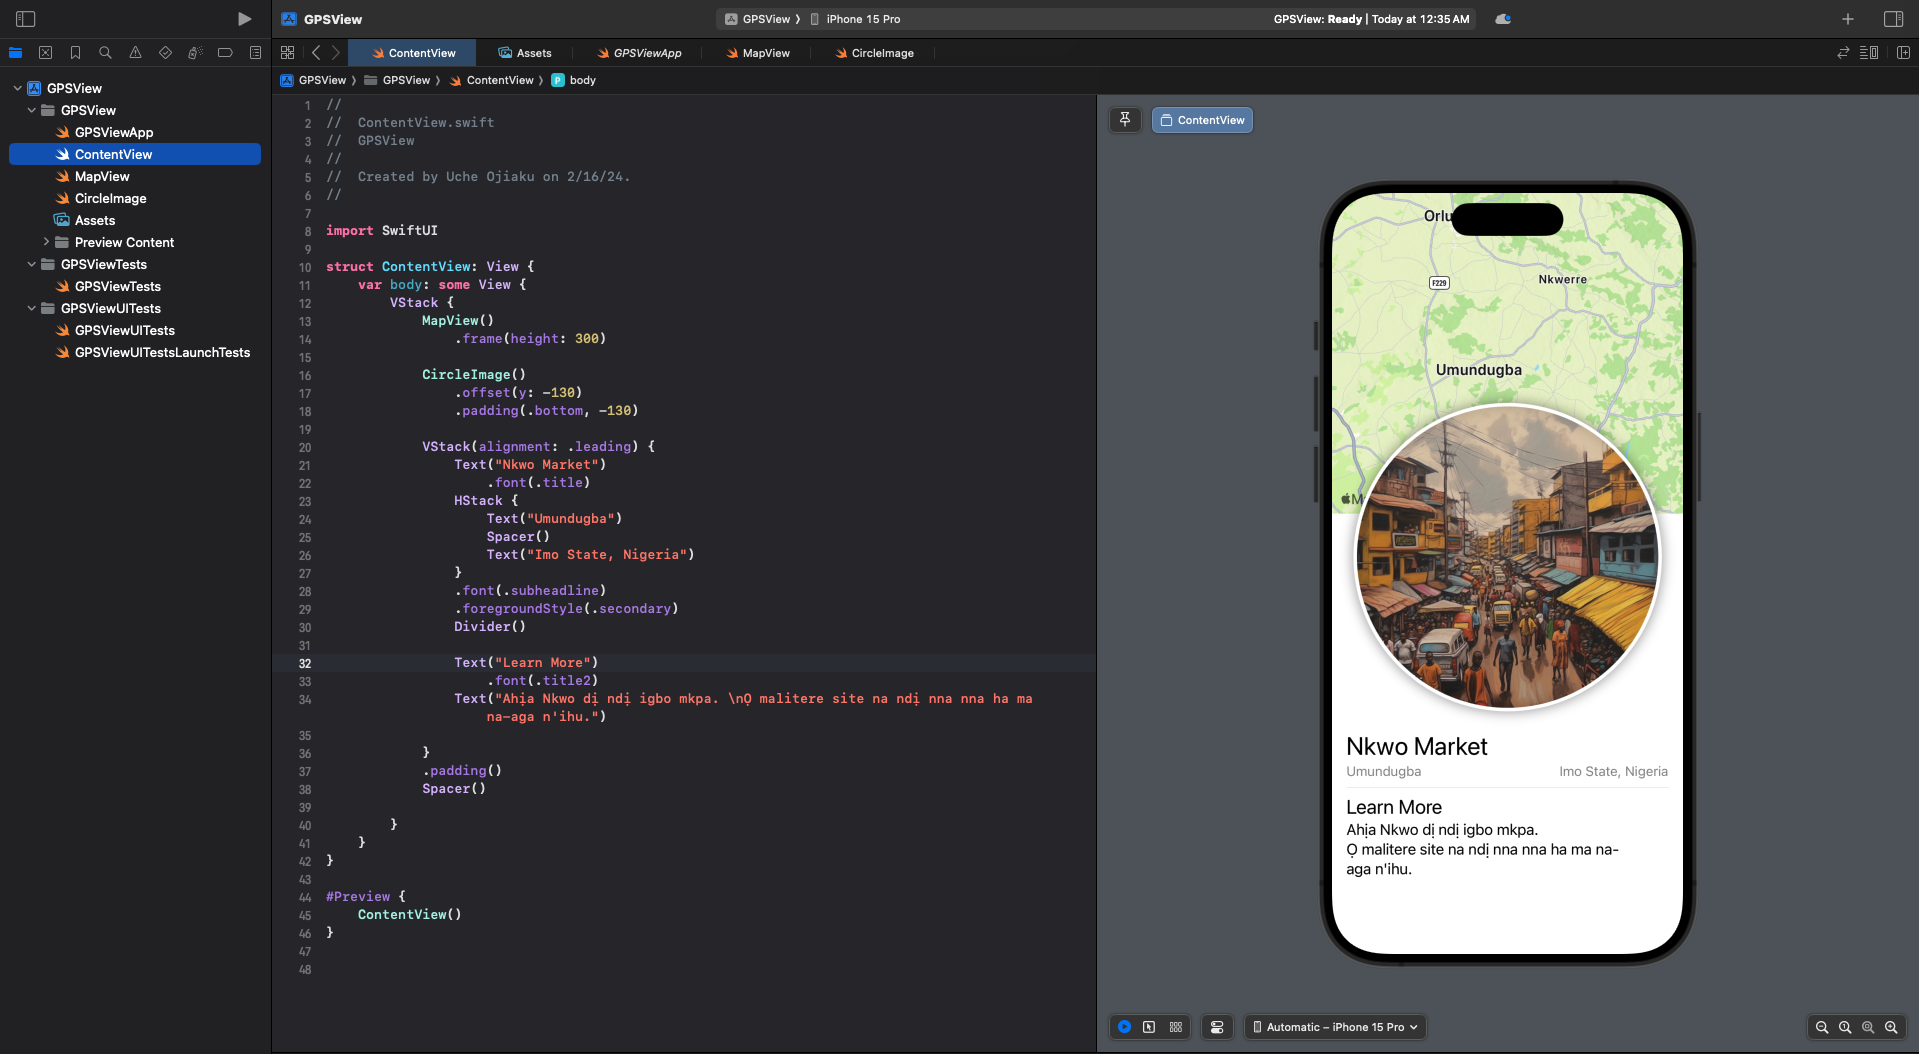
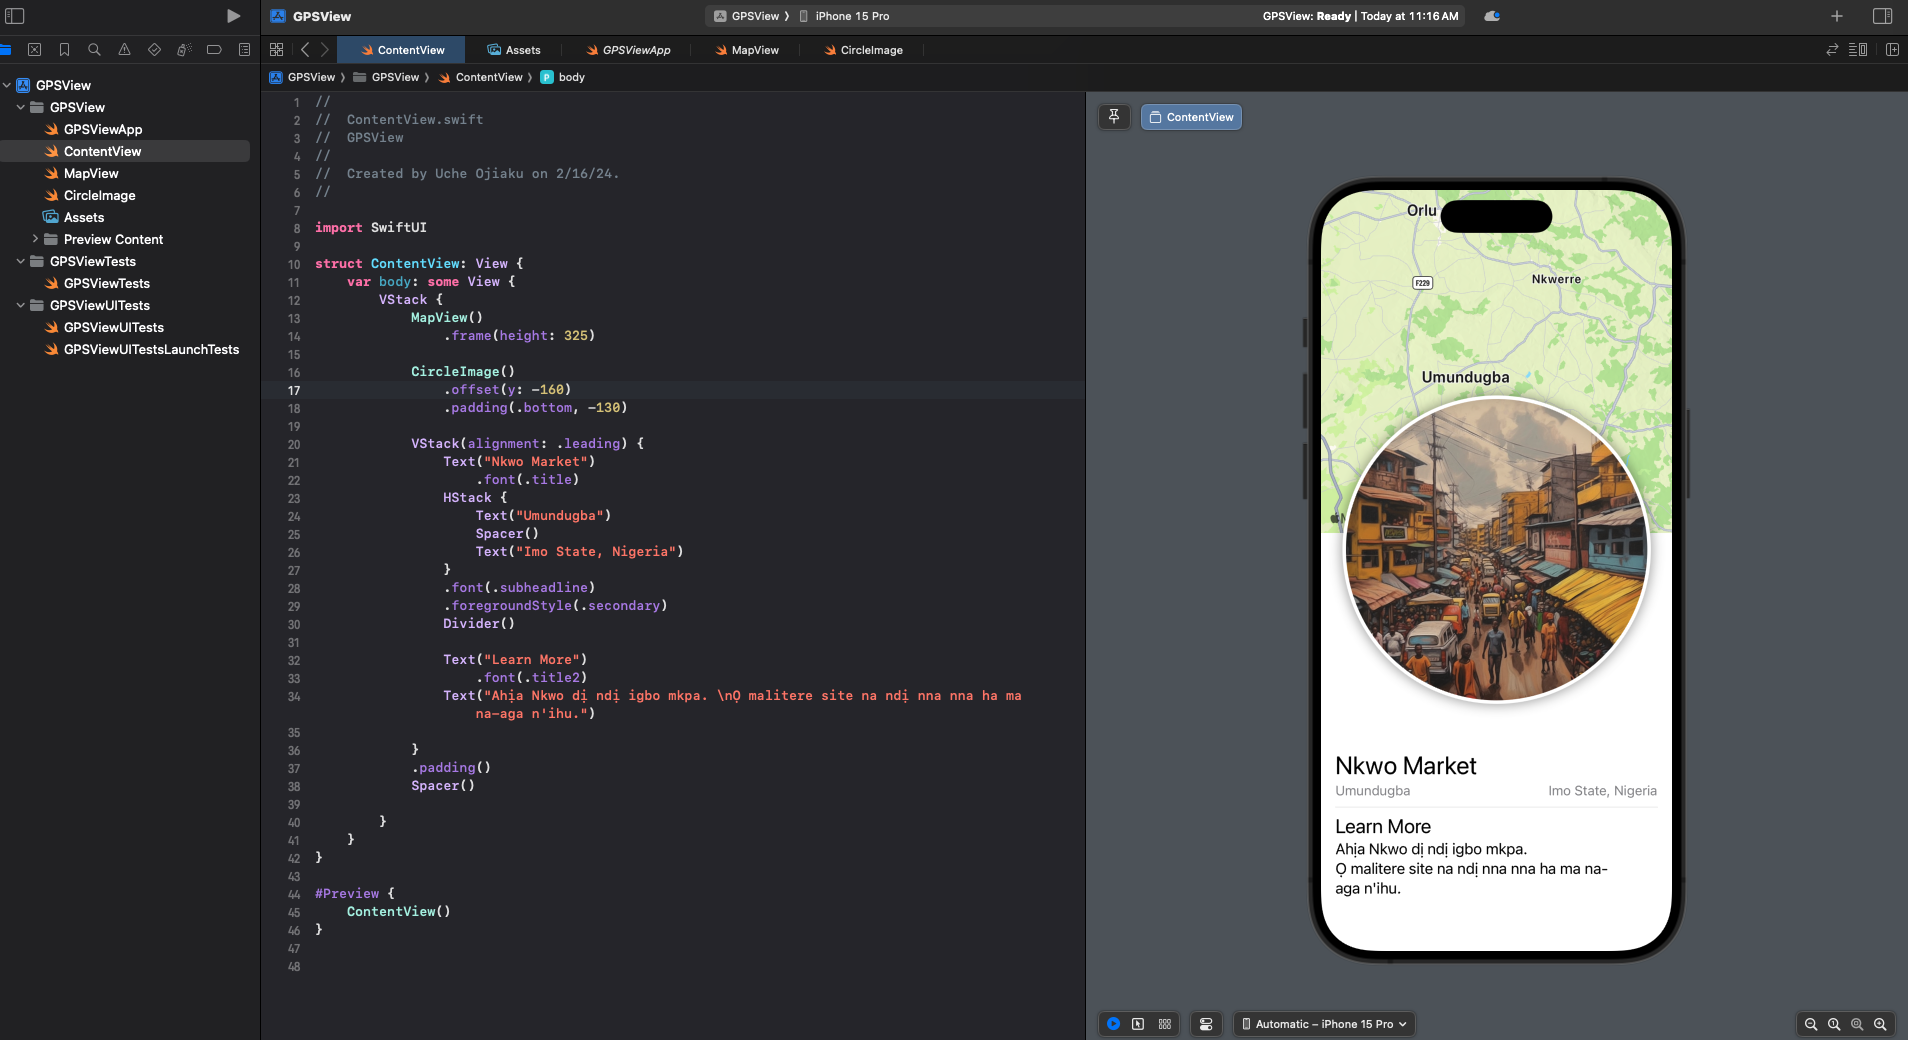
update code

diff --git a/GPSView/ContentView.swift b/GPSView/ContentView.swift
@@ -11,10 +11,10 @@ struct ContentView: View {
     var body: some View {
         VStack {
             MapView()
-                .frame(height: 300)
+                .frame(height: 325)
             
             CircleImage()
-                .offset(y: -130)
+                .offset(y: -160)
                 .padding(.bottom, -130)
             
             VStack(alignment: .leading) {
